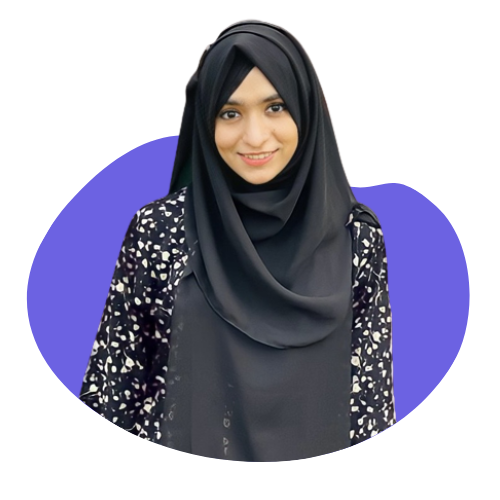
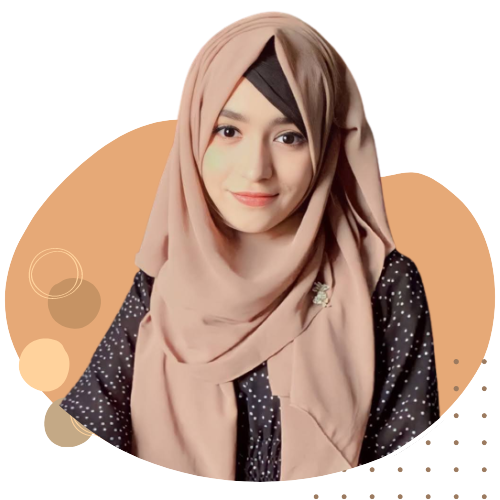
hero picture changed

diff --git a/src/Pages/Home/Hero.js b/src/Pages/Home/Hero.js
@@ -1,14 +1,14 @@
 import React from 'react';
-import picture from '../../assets/images/pic1.png'
+import picture from '../../assets/images/picture.png'
 import resume from '../../assets/portfolio/Resume-Sayema.pdf';
 import { Link } from 'react-scroll';
 
 const Home = () => {
     return (
-        <div id="home" className='bg-base-300 pb-28 pt-10 lg:pt-8 lg:pb-0 lg:mb-0'>
+        <div id="home" className='bg-base-300 pb-28 pt-10 lg:pt-18 lg:pb-0 lg:mb-0'>
             <div className='max-w-7xl mx-auto'>
                 <div class="hero">
-                    <div class="hero-content flex-col pb-0 lg:flex-row-reverse">
+                    <div class="hero-content flex-col lg:flex-row-reverse">
                         <img src={picture} class="lg:w-[450px] lg:flex hidden rounded-lg ml-5" alt="Sayema Akhtar" />
                         <div className='text-center lg:text-start lg:max-w-lg lg:ml-5 mt-28 lg:mt-[-65px]'>
                             <p className='text-primary text-lg font-medium'>Hi there! I'm Sayema Akhtar.</p>
